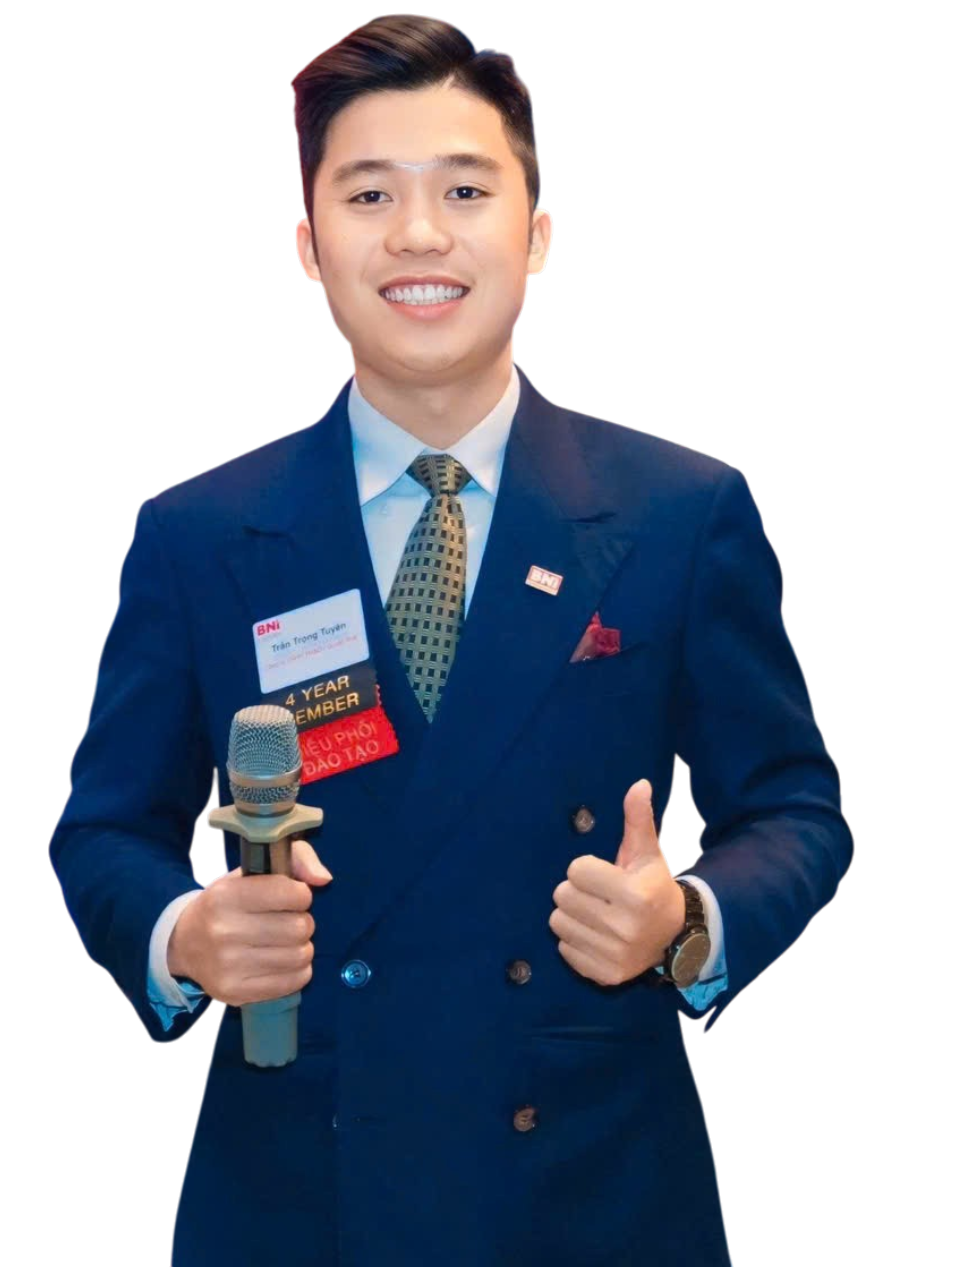
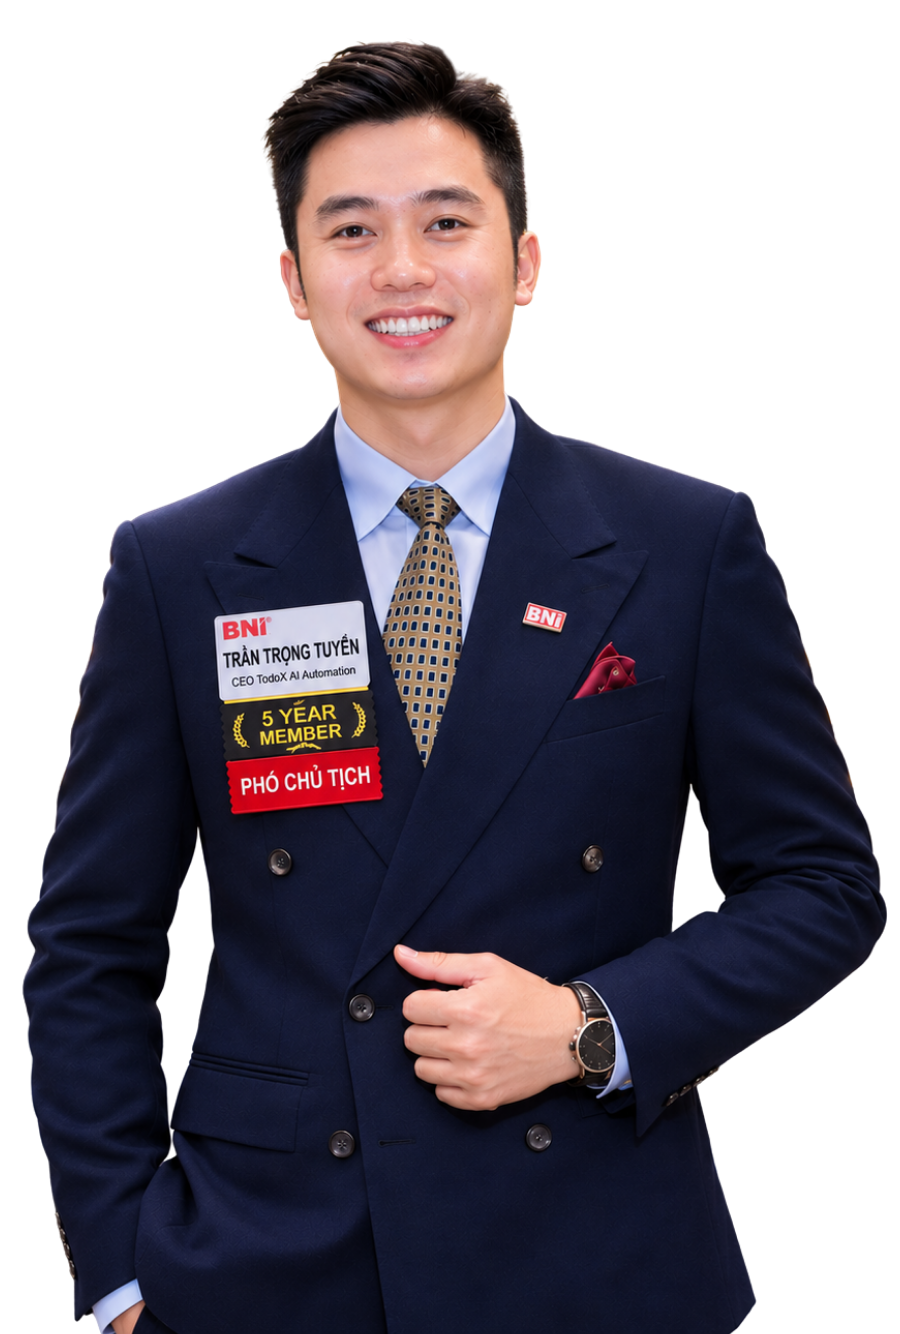
feat(landing): ảnh mới của Trần Trọng Tuyên

diff --git a/TodoX.Landing/wwwroot/js/landing-config.js b/TodoX.Landing/wwwroot/js/landing-config.js
@@ -66,7 +66,7 @@ window.TODOX_LANDING_CONFIG = {
     if (!founder) return;
 
     founder.style.backgroundImage =
-      "linear-gradient(to top, rgba(0,0,0,.32), transparent 55%), url('/img/landing/tran-trong-tuyen.png?v=20260809-3')";
+      "linear-gradient(to top, rgba(0,0,0,.32), transparent 55%), url('/img/landing/tran-trong-tuyen.png?v=20261113-1')";
     founder.style.backgroundPosition = 'center top';
     founder.style.backgroundSize = 'contain';
     founder.style.backgroundRepeat = 'no-repeat';

diff --git a/TodoX.Landing/wwwroot/index.html b/TodoX.Landing/wwwroot/index.html
@@ -425,7 +425,7 @@
       </div>
     </div>
   </div>
-  <script src="js/landing-config.js" defer></script>
+  <script src="js/landing-config.js?v=20261113-1" defer></script>
   <script src="vendor/gsap/gsap.min.js" defer></script>
   <script src="vendor/gsap/ScrollTrigger.min.js" defer></script>
   <script src="vendor/gsap/MotionPathPlugin.min.js" defer></script>
